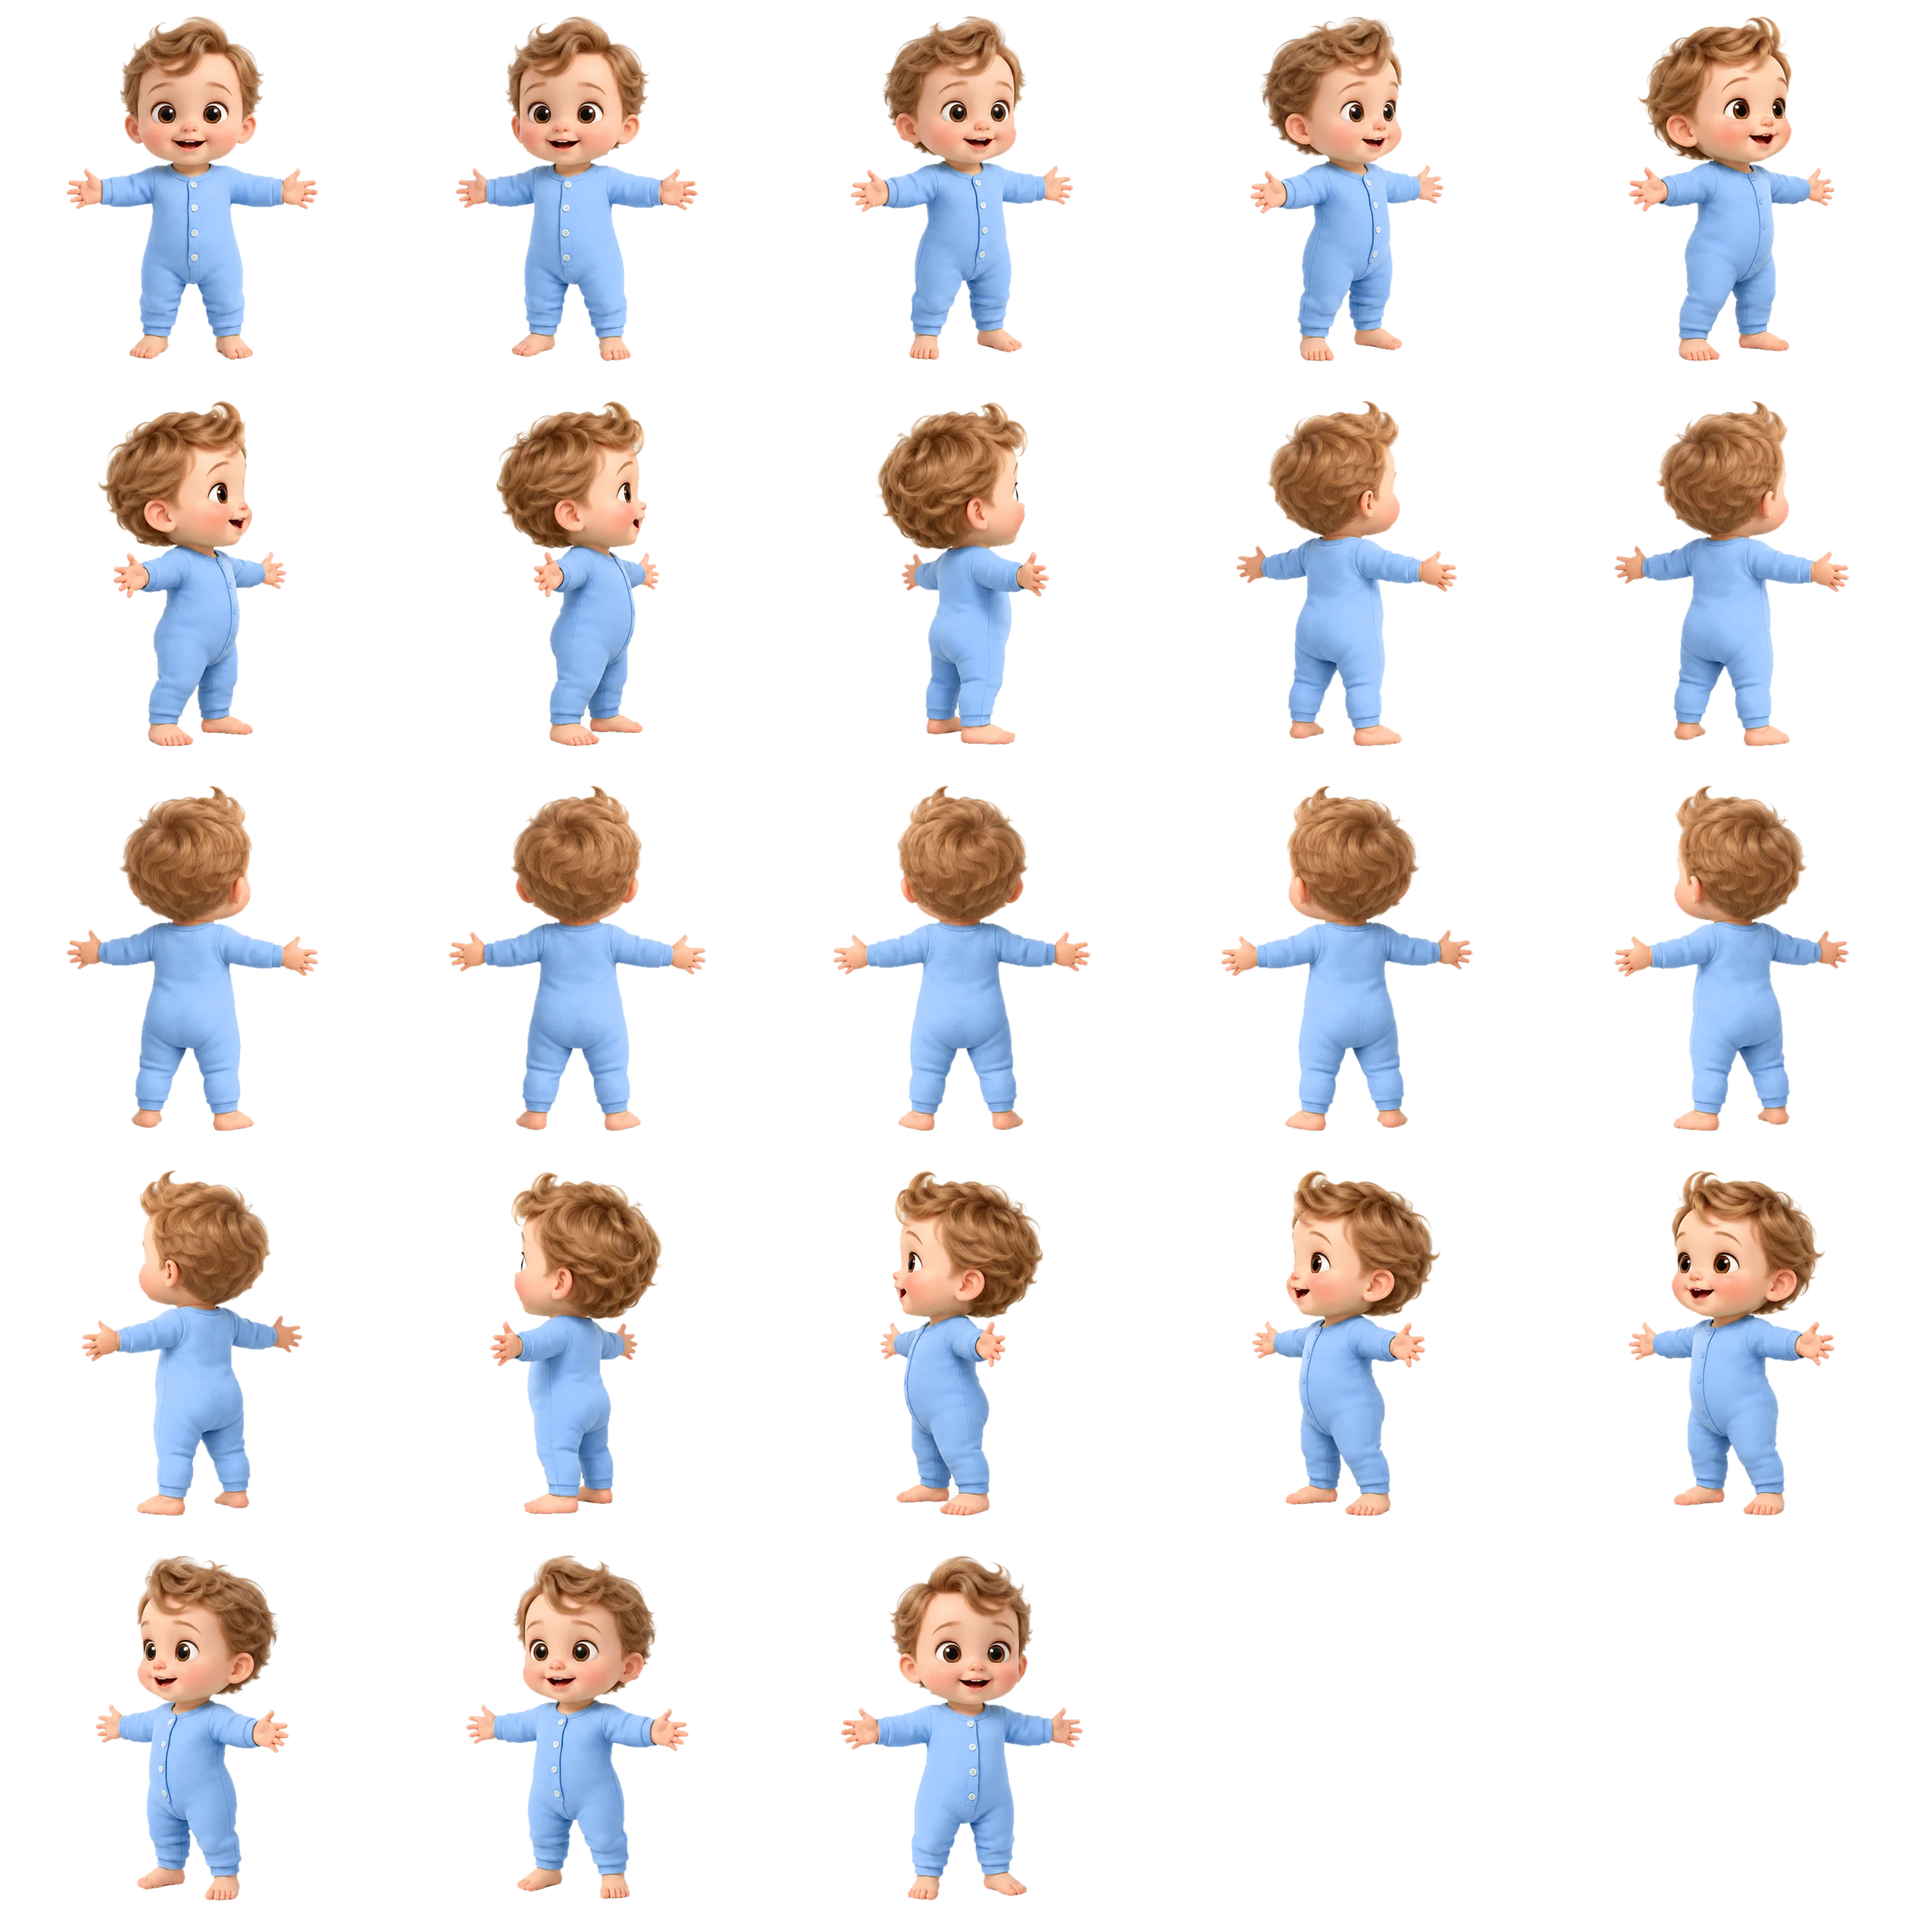
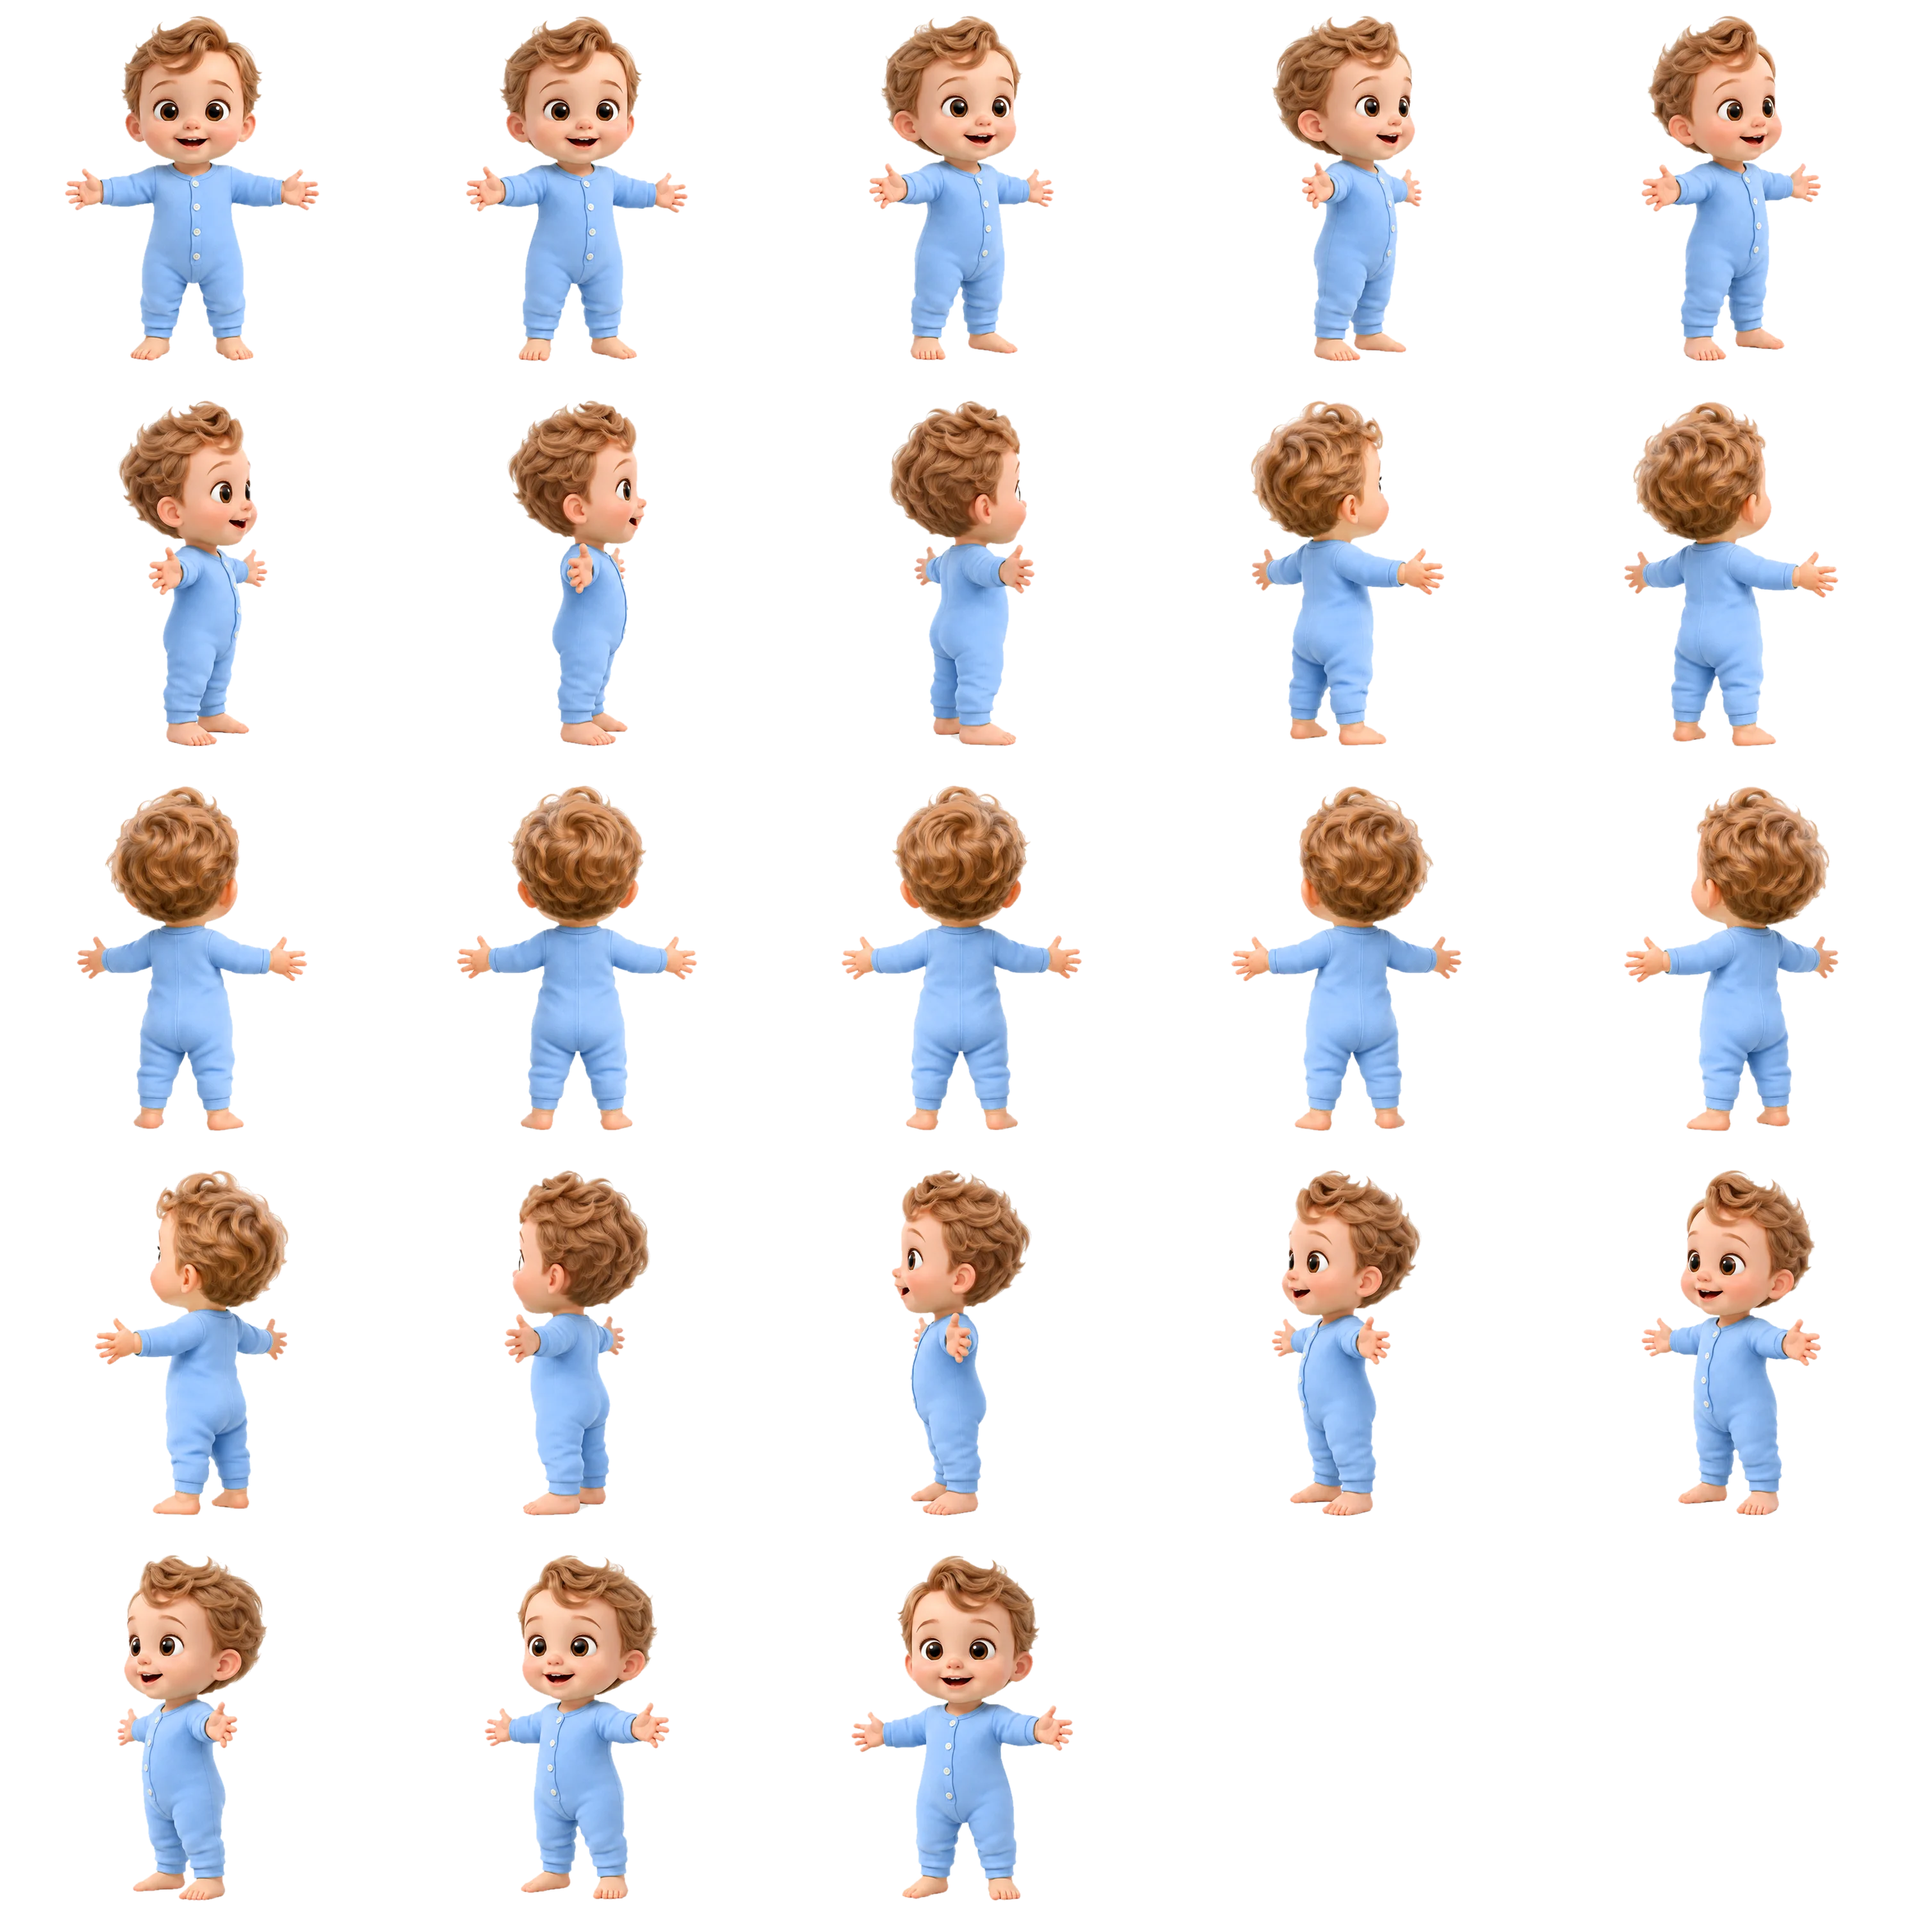
Lilbaby: standing boy turn from reference-based sheets, hair colour matched across sheets
Claude-Session: https://claude.ai/code/session_01Awkxe5HL1475RCpGNKRcpY

diff --git a/parenting-app/tools/baby-turn/build.py b/parenting-app/tools/baby-turn/build.py
@@ -87,8 +87,41 @@ def figures(path: str) -> list[Image.Image]:
     return out
 
 
+def hair_stats(fig: Image.Image):
+    """Soft mask of the hair (brown, darker than skin) and its median colour."""
+    arr = np.asarray(fig).astype(np.float32) / 255.0
+    rgb, a = arr[..., :3], arr[..., 3]
+    mx, mn = rgb.max(axis=2), rgb.min(axis=2)
+    sat = np.where(mx > 0, (mx - mn) / np.maximum(mx, 1e-6), 0)
+    warm = (rgb[..., 0] >= rgb[..., 1]) & (rgb[..., 1] >= rgb[..., 2])
+    # Hair is warm, saturated and clearly darker than the skin; eyes and mouth are tiny next to it.
+    mask = np.clip((0.86 - mx) / 0.10, 0, 1) * np.clip((sat - 0.30) / 0.10, 0, 1) * warm * (a > 0.5)
+    strong = mask > 0.9
+    med = np.median(rgb[strong], axis=0) if strong.sum() > 500 else None
+    return mask, med
+
+
+def match_hair(figs: list[Image.Image], target) -> list[Image.Image]:
+    """Brings the hair colour of one source image to the colour of the first one."""
+    meds = [m for m in (hair_stats(f)[1] for f in figs) if m is not None]
+    if target is None or not meds:
+        return figs
+    gain = np.clip(target / np.maximum(np.median(np.array(meds), axis=0), 1e-3), 0.7, 1.45)
+    out = []
+    for f in figs:
+        arr = np.asarray(f).astype(np.float32) / 255.0
+        mask = hair_stats(f)[0][..., None]
+        arr[..., :3] = np.clip(arr[..., :3] * (1 + (gain - 1) * mask), 0, 1)
+        out.append(Image.fromarray((arr * 255).round().astype(np.uint8), 'RGBA'))
+    return out
+
+
 def build(name: str, moods_only: bool = False) -> None:
-    views = [v for part in 'abc' for v in figures(os.path.join(SRC, f'{name}-{part}.png'))]
+    parts = [figures(os.path.join(SRC, f'{name}-{part}.png')) for part in 'abc']
+    # The source images are separate generations: keep the hair one colour all the way round.
+    meds = [m for m in (hair_stats(f)[1] for f in parts[0]) if m is not None]
+    target = np.median(np.array(meds), axis=0) if meds else None
+    views = parts[0] + match_hair(parts[1], target) + match_hair(parts[2], target)
     # The two source images draw the character at different sizes: bring all to one height.
     height = max(v.height for v in views)
     views = [v.resize((round(v.width * height / v.height), height), Image.LANCZOS) for v in views]
@@ -155,11 +188,13 @@ if __name__ == '__main__':
     os.makedirs(MOOD_OUT, exist_ok=True)
     moods_only = '--moods-only' in sys.argv
     names = sorted({f[:-6] for f in os.listdir(SRC) if f.endswith('-a.png')})
+    only = [a for a in sys.argv[1:] if not a.startswith('--')]
+    todo = [n for n in names if not only or n in only]
     from multiprocessing import Pool
     with Pool() as pool:
-        for n in pool.starmap(build, [(n, moods_only) for n in names]):
+        for n in pool.starmap(build, [(n, moods_only) for n in todo]):
             pass
-    print('built', ', '.join(names))
+    print('built', ', '.join(todo))
     for sex in ('boy', 'girl'):
         build_asleep(sex)
     # The list of turn sheets the app can show.
